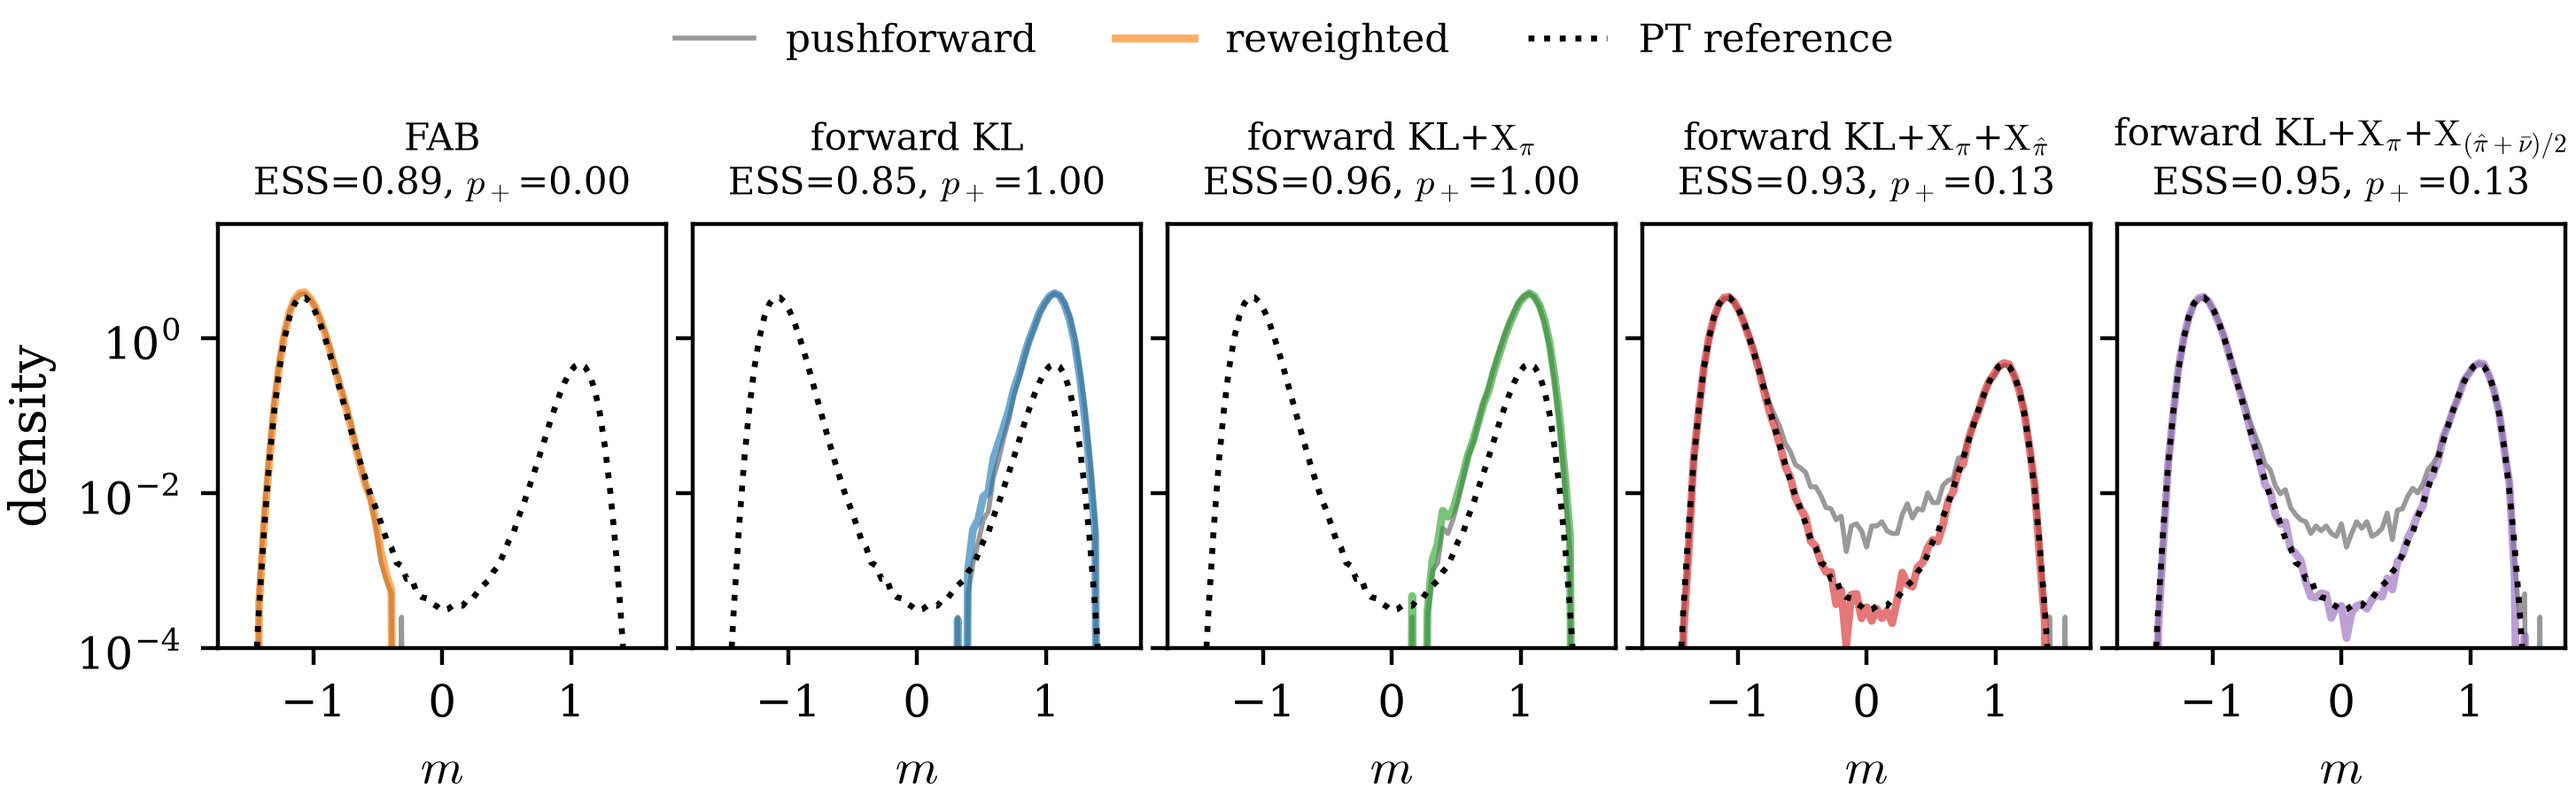
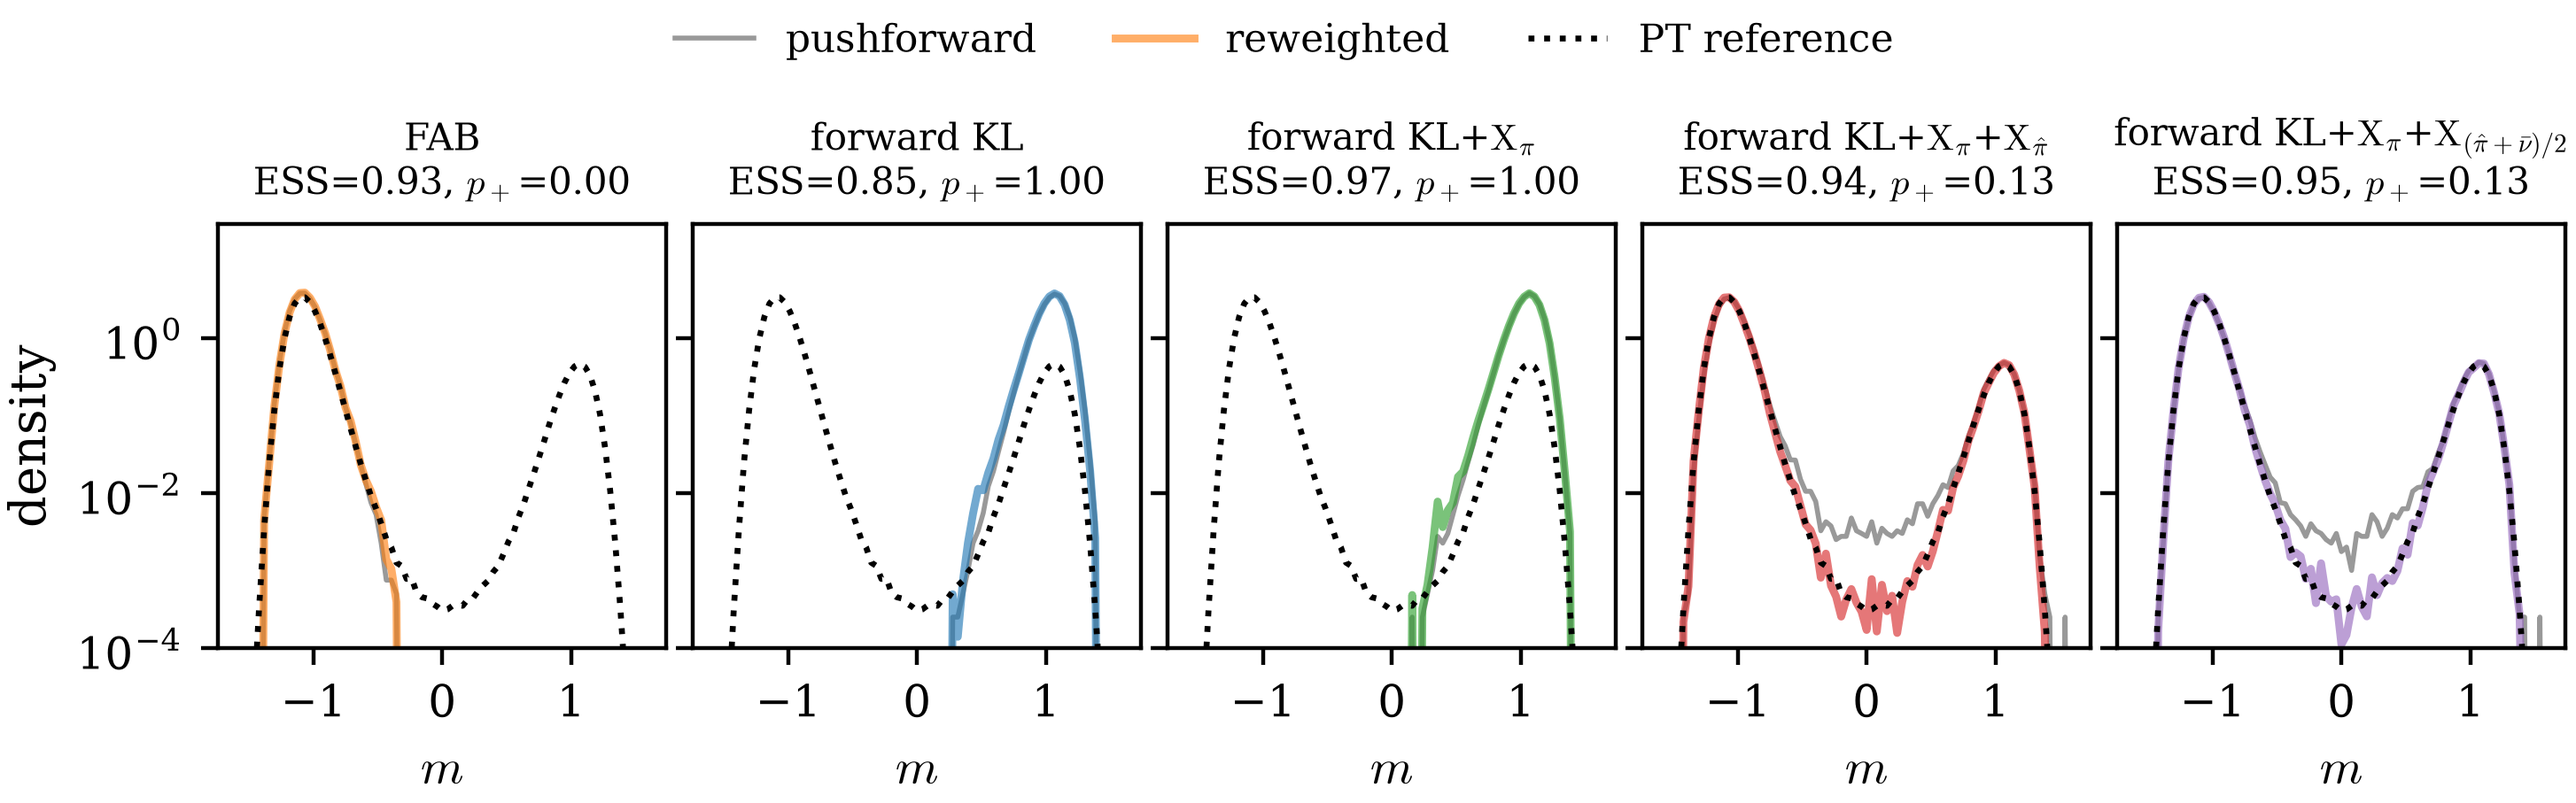
phi4 L6 and L8 rerun with jflows 6.0.0: five methods, FAB merged, figures regenerated
Claude-Session: https://claude.ai/code/session_016SG3MpRQ6oT61wn5VSkfDi

diff --git a/Codes_New/Lattice_Phi4/L6/train.py b/Codes_New/Lattice_Phi4/L6/train.py
@@ -99,6 +99,7 @@ def train(name, coeff_lambda, mixture, seed, x_valid, flow0):
         ladder=LADDER,
         mc_dt=MC_DT,
         mc_steps_1=MC_STEPS_1,
+        mc_steps_2=MC_STEPS_2,
         mc_adjust=True,
         monitor=Monitor(500, f"[s{seed} {name}] ", log),
         seed=seed,
@@ -123,7 +124,6 @@ def train(name, coeff_lambda, mixture, seed, x_valid, flow0):
         melt=MELT,
         opt_dt=OPT_DT,
         opt_steps=OPT_STEPS,
-        mc_steps_2=MC_STEPS_2,
         coeff_lambda=coeff_lambda,
         coeff_theta=mixture[0],
         coeff_alpha=mixture[1],

diff --git a/Codes_New/Lattice_Phi4/L8/train.py b/Codes_New/Lattice_Phi4/L8/train.py
@@ -99,6 +99,7 @@ def train(name, coeff_lambda, mixture, seed, x_valid, flow0):
         ladder=LADDER,
         mc_dt=MC_DT,
         mc_steps_1=MC_STEPS_1,
+        mc_steps_2=MC_STEPS_2,
         mc_adjust=True,
         monitor=Monitor(500, f"[s{seed} {name}] ", log),
         seed=seed,
@@ -123,7 +124,6 @@ def train(name, coeff_lambda, mixture, seed, x_valid, flow0):
         melt=MELT,
         opt_dt=OPT_DT,
         opt_steps=OPT_STEPS,
-        mc_steps_2=MC_STEPS_2,
         coeff_lambda=coeff_lambda,
         coeff_theta=mixture[0],
         coeff_alpha=mixture[1],

diff --git a/Codes_New/Lattice_Phi4/L6/train_fab.py b/Codes_New/Lattice_Phi4/L6/train_fab.py
@@ -70,7 +70,8 @@ def main():
         flow, _ = train_FAB_G(
             x_valid, B.source, B.target, flow0,
             batch_size=B.BATCH_SZIE, steps_total=B.STEPS_TOTAL, lr=B.LR,
-            ladder=B.LADDER, mc_dt=B.MC_DT, mc_steps_1=B.MC_STEPS_1, mc_adjust=True,
+            ladder=B.LADDER, mc_dt=B.MC_DT, mc_steps_1=B.MC_STEPS_1, mc_steps_2=B.MC_STEPS_2,
+            mc_adjust=True,
             monitor=Monitor(500, f"[s{seed} {NAME}] ", log), seed=seed,
             u_clip=B.U_CLIP, g_clip=B.G_CLIP,
         )

diff --git a/Codes_New/Lattice_Phi4/L8/train_fab.py b/Codes_New/Lattice_Phi4/L8/train_fab.py
@@ -70,7 +70,8 @@ def main():
         flow, _ = train_FAB_G(
             x_valid, B.source, B.target, flow0,
             batch_size=B.BATCH_SZIE, steps_total=B.STEPS_TOTAL, lr=B.LR,
-            ladder=B.LADDER, mc_dt=B.MC_DT, mc_steps_1=B.MC_STEPS_1, mc_adjust=True,
+            ladder=B.LADDER, mc_dt=B.MC_DT, mc_steps_1=B.MC_STEPS_1, mc_steps_2=B.MC_STEPS_2,
+            mc_adjust=True,
             monitor=Monitor(500, f"[s{seed} {NAME}] ", log), seed=seed,
             u_clip=B.U_CLIP, g_clip=B.G_CLIP,
         )
